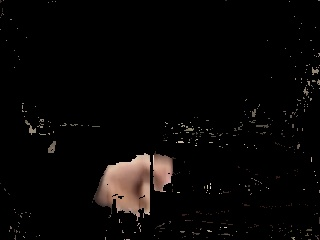
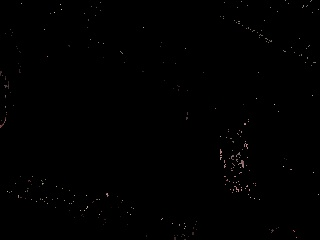
new_finger_counter working

diff --git a/src/main.py b/src/main.py
@@ -3,7 +3,7 @@ from new_finger_counter import NewFingerCounter as FC
 if __name__ == "__main__":
     
     in_dir = "../data/hardP/"
-    video_name = "IMG_0050.MOV"
+    video_name = "IMG_0159.MOV"
     out_dir = "../data/out/"
     report_name = "report.txt"
     fc = FC(video_name, report_name, in_dir, out_dir, True)
